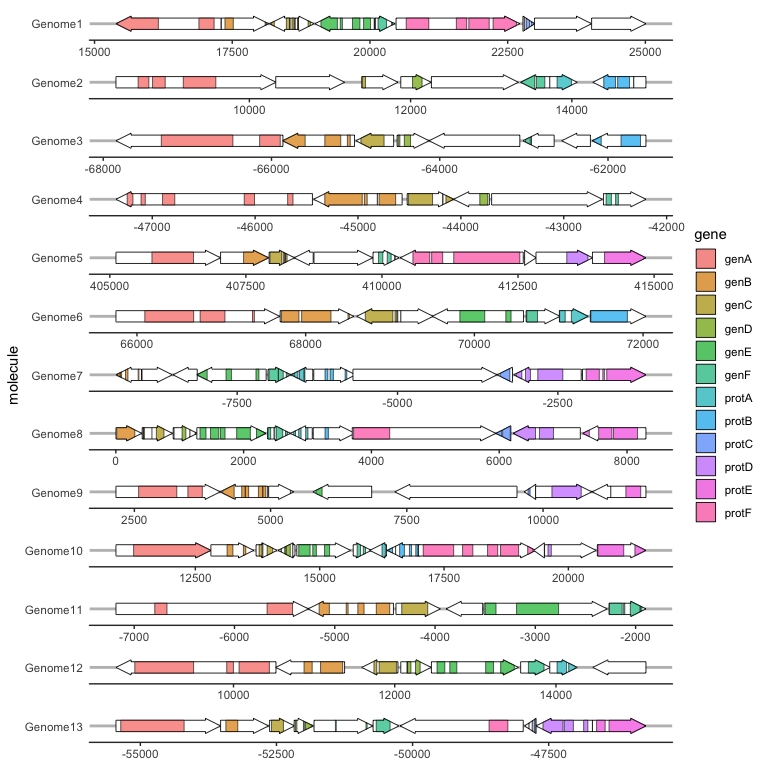
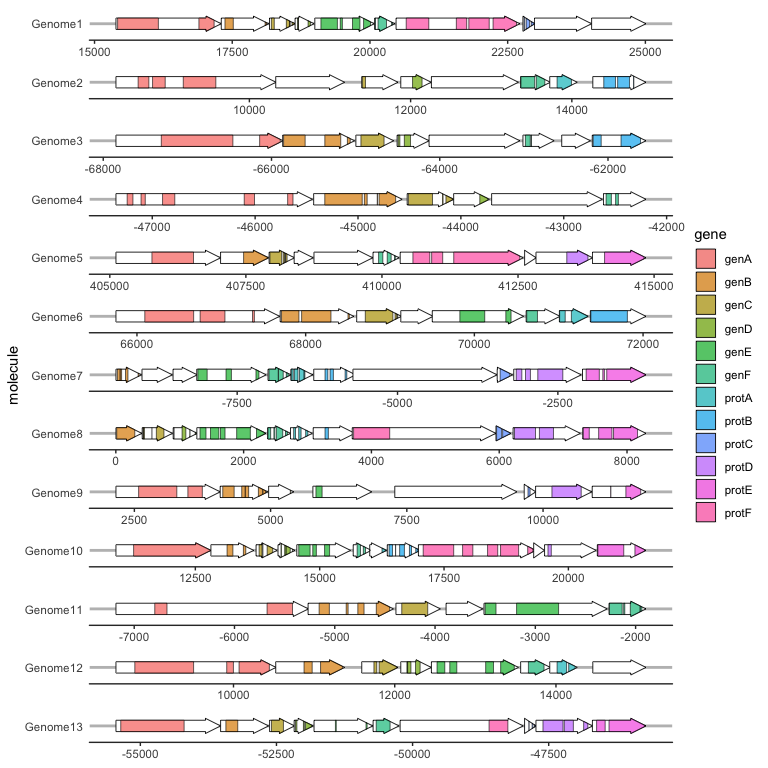
better error handling

diff --git a/README.md b/README.md
@@ -141,22 +141,21 @@ alignments, by using the subgene\_arrow geom.
 This works similarly to `geom_gene_arrow`, but in addition to `xmin` and
 `xmax` (which determines the gene boundary), we need the aesthetics
 `xsubmin` and `xsubmax`, which will produce pretty arrowheads as long as
-`xmin>=xsubmin` and `xmax>=xsubmax` for all subgenes.
+`xmin>=xsubmin` and `xmax>=xsubmax` for all subgenes (subgenes that
+break gene boundaries will be skipped with a warning).
 
 The suggested usage is to use geom\_gene\_arrow with no fill, and then
 add a subgene layer over this. This example uses randomly drawn
 segments:
 
 ``` r
-example_subgenes$direction <- ifelse(example_subgenes$strand == "forward", 1, -1)
 ggplot2::ggplot(example_genes,
-                ggplot2::aes(xmin = start, xmax = end, y = molecule,
-                             forward = direction)) +
+                ggplot2::aes(xmin = start, xmax = end, y = molecule)) +
   ggplot2::facet_wrap(~ molecule, scales = "free", ncol = 1) +
-  geom_gene_arrow(fill='white') +
-  geom_subgene_arrow(data=example_subgenes,
+  geom_gene_arrow(fill = "white") +
+  geom_subgene_arrow(data = example_subgenes,
     ggplot2::aes(xmin = start, xmax = end, y = molecule, fill = gene,
-                 forward = direction, xsubmin=from, xsubmax=to), color='black', alpha=.7) +
+                 xsubmin = from, xsubmax = to), color="black", alpha=.7) +
   theme_genes()
 ```
 
